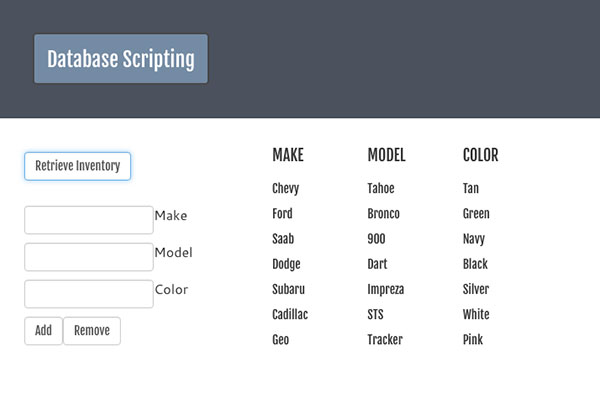
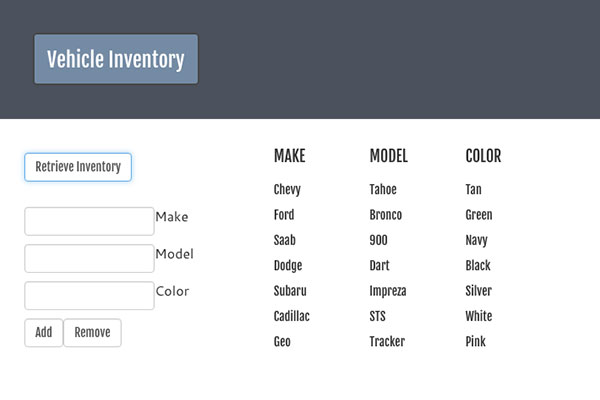
php-sql example

diff --git a/index.html b/index.html
@@ -344,7 +344,7 @@
                                             </div>
                                         </div>
                                         <div class="card-block">
-                                            <h4 class="card-title h4-responsive">PHP / SQL</h4>
+                                            <h4 class="card-title h4-responsive">Vehicle Inventory</h4>
                                             <hr class="hr-teal">
                                             <p class="card-text">This application uses PHP and SQL to access a MySQL database</p>
                                             <a href="https://dev2.tidalexpeditions.com/php-sql/" target="_blank" class="btn btn-ptc">Demo</a>
